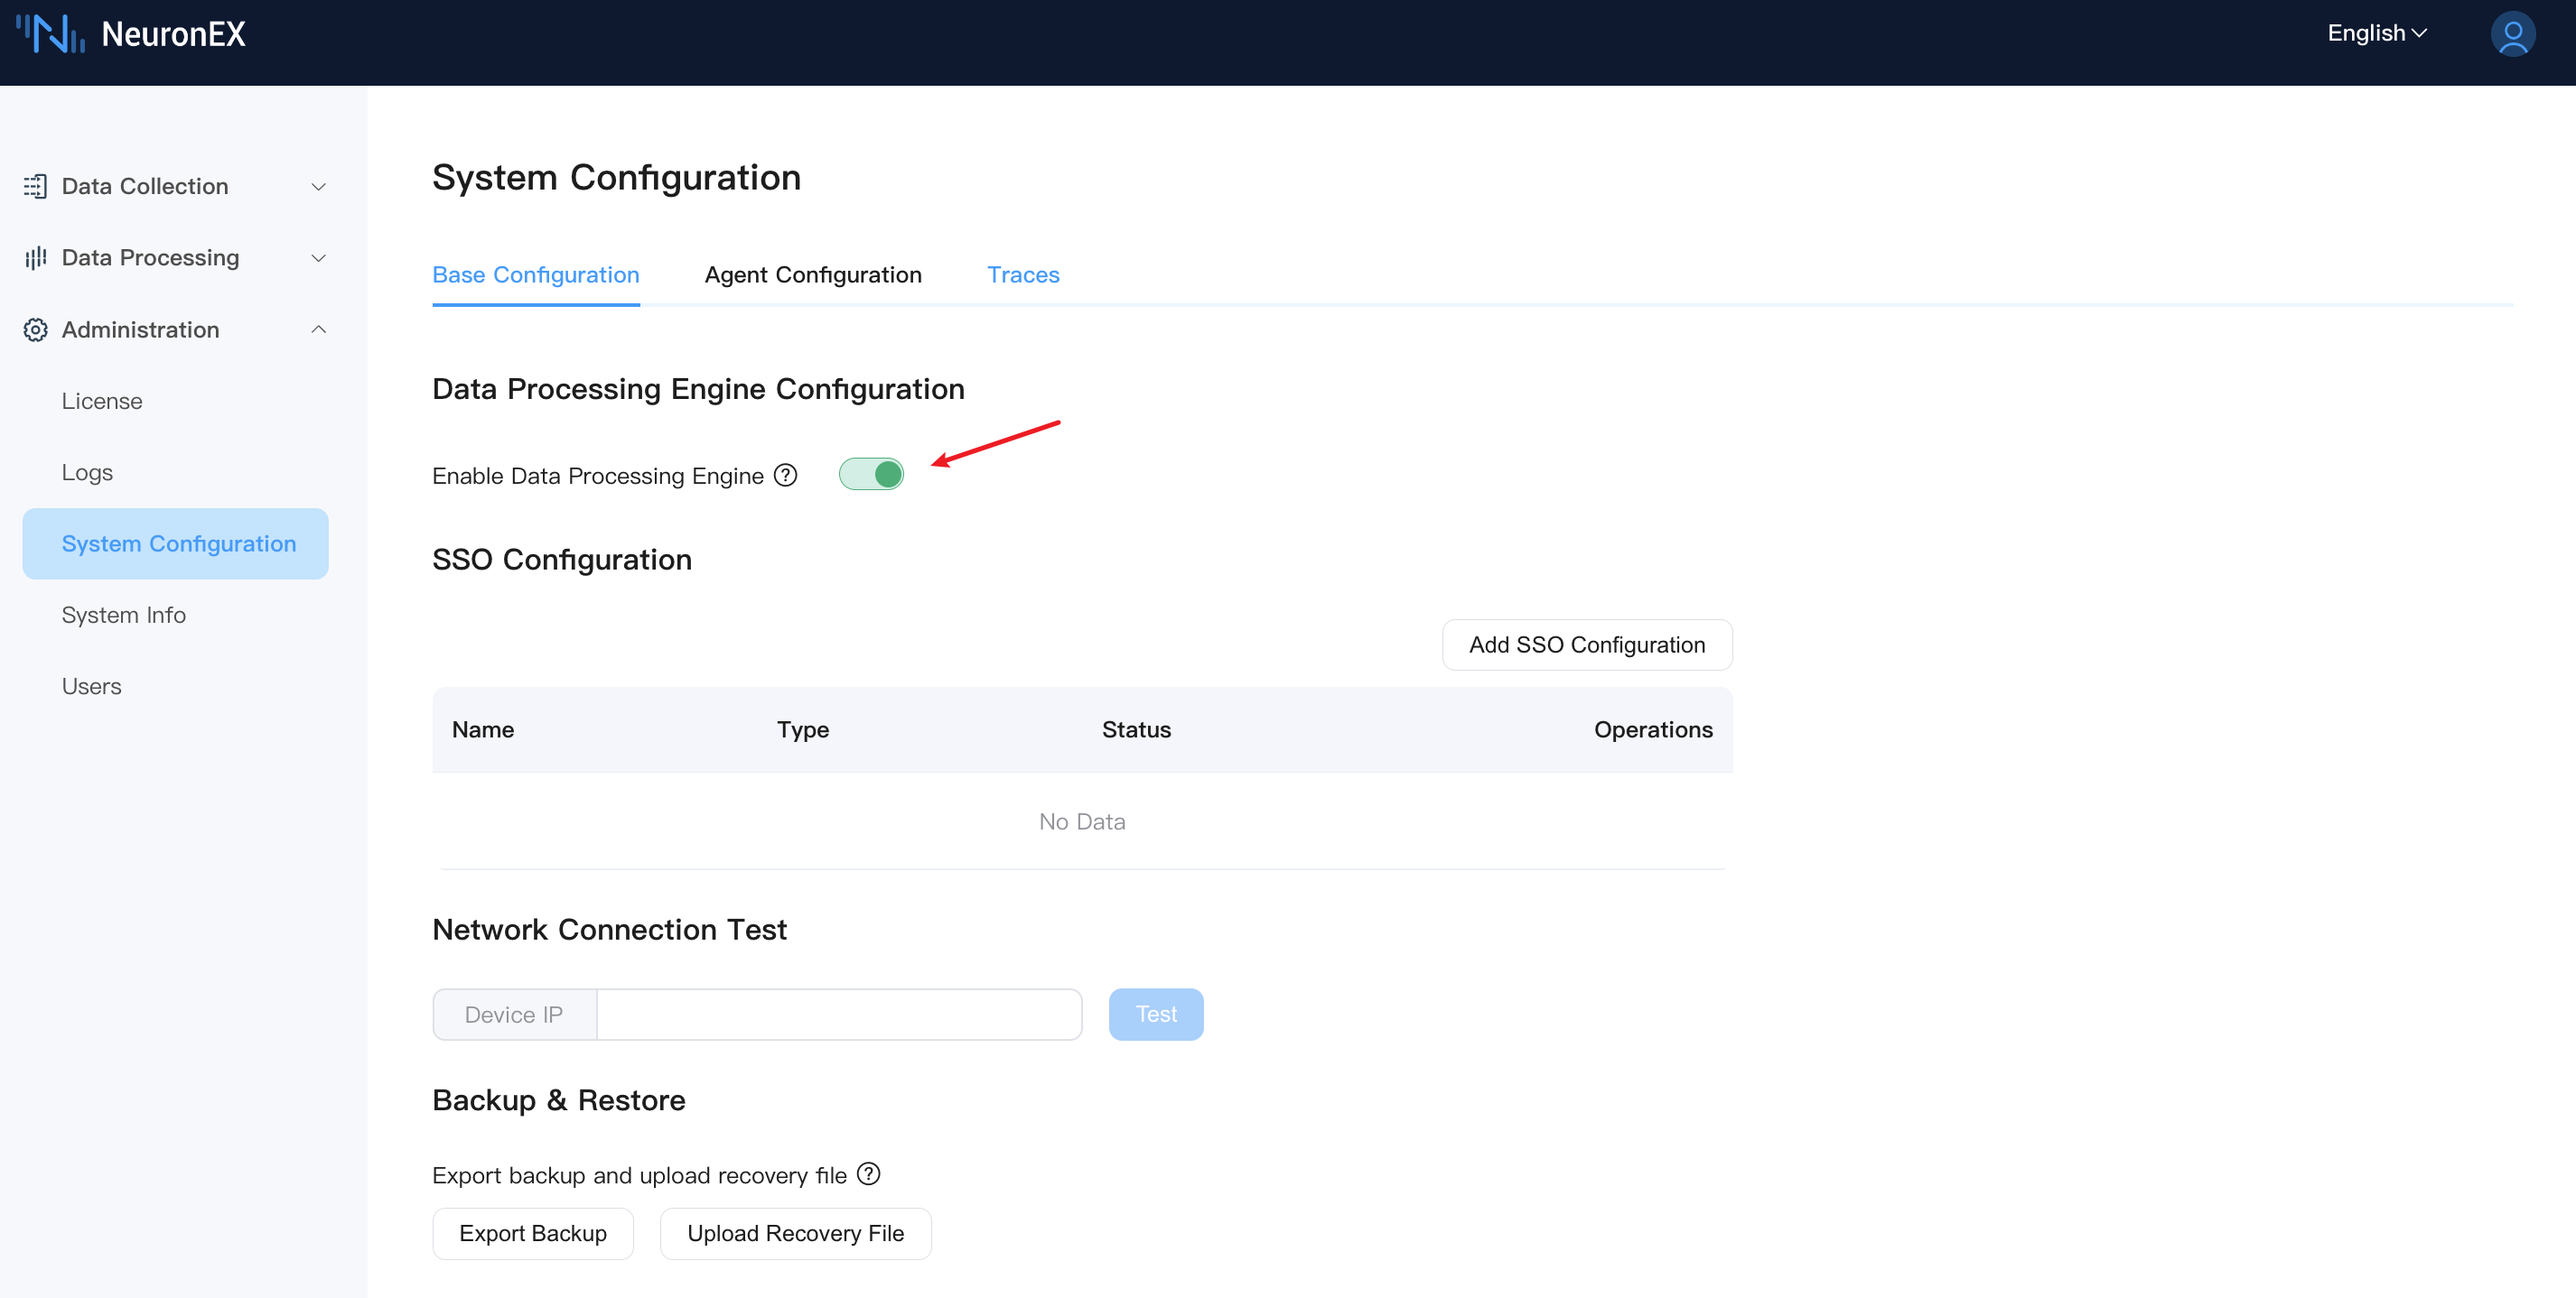
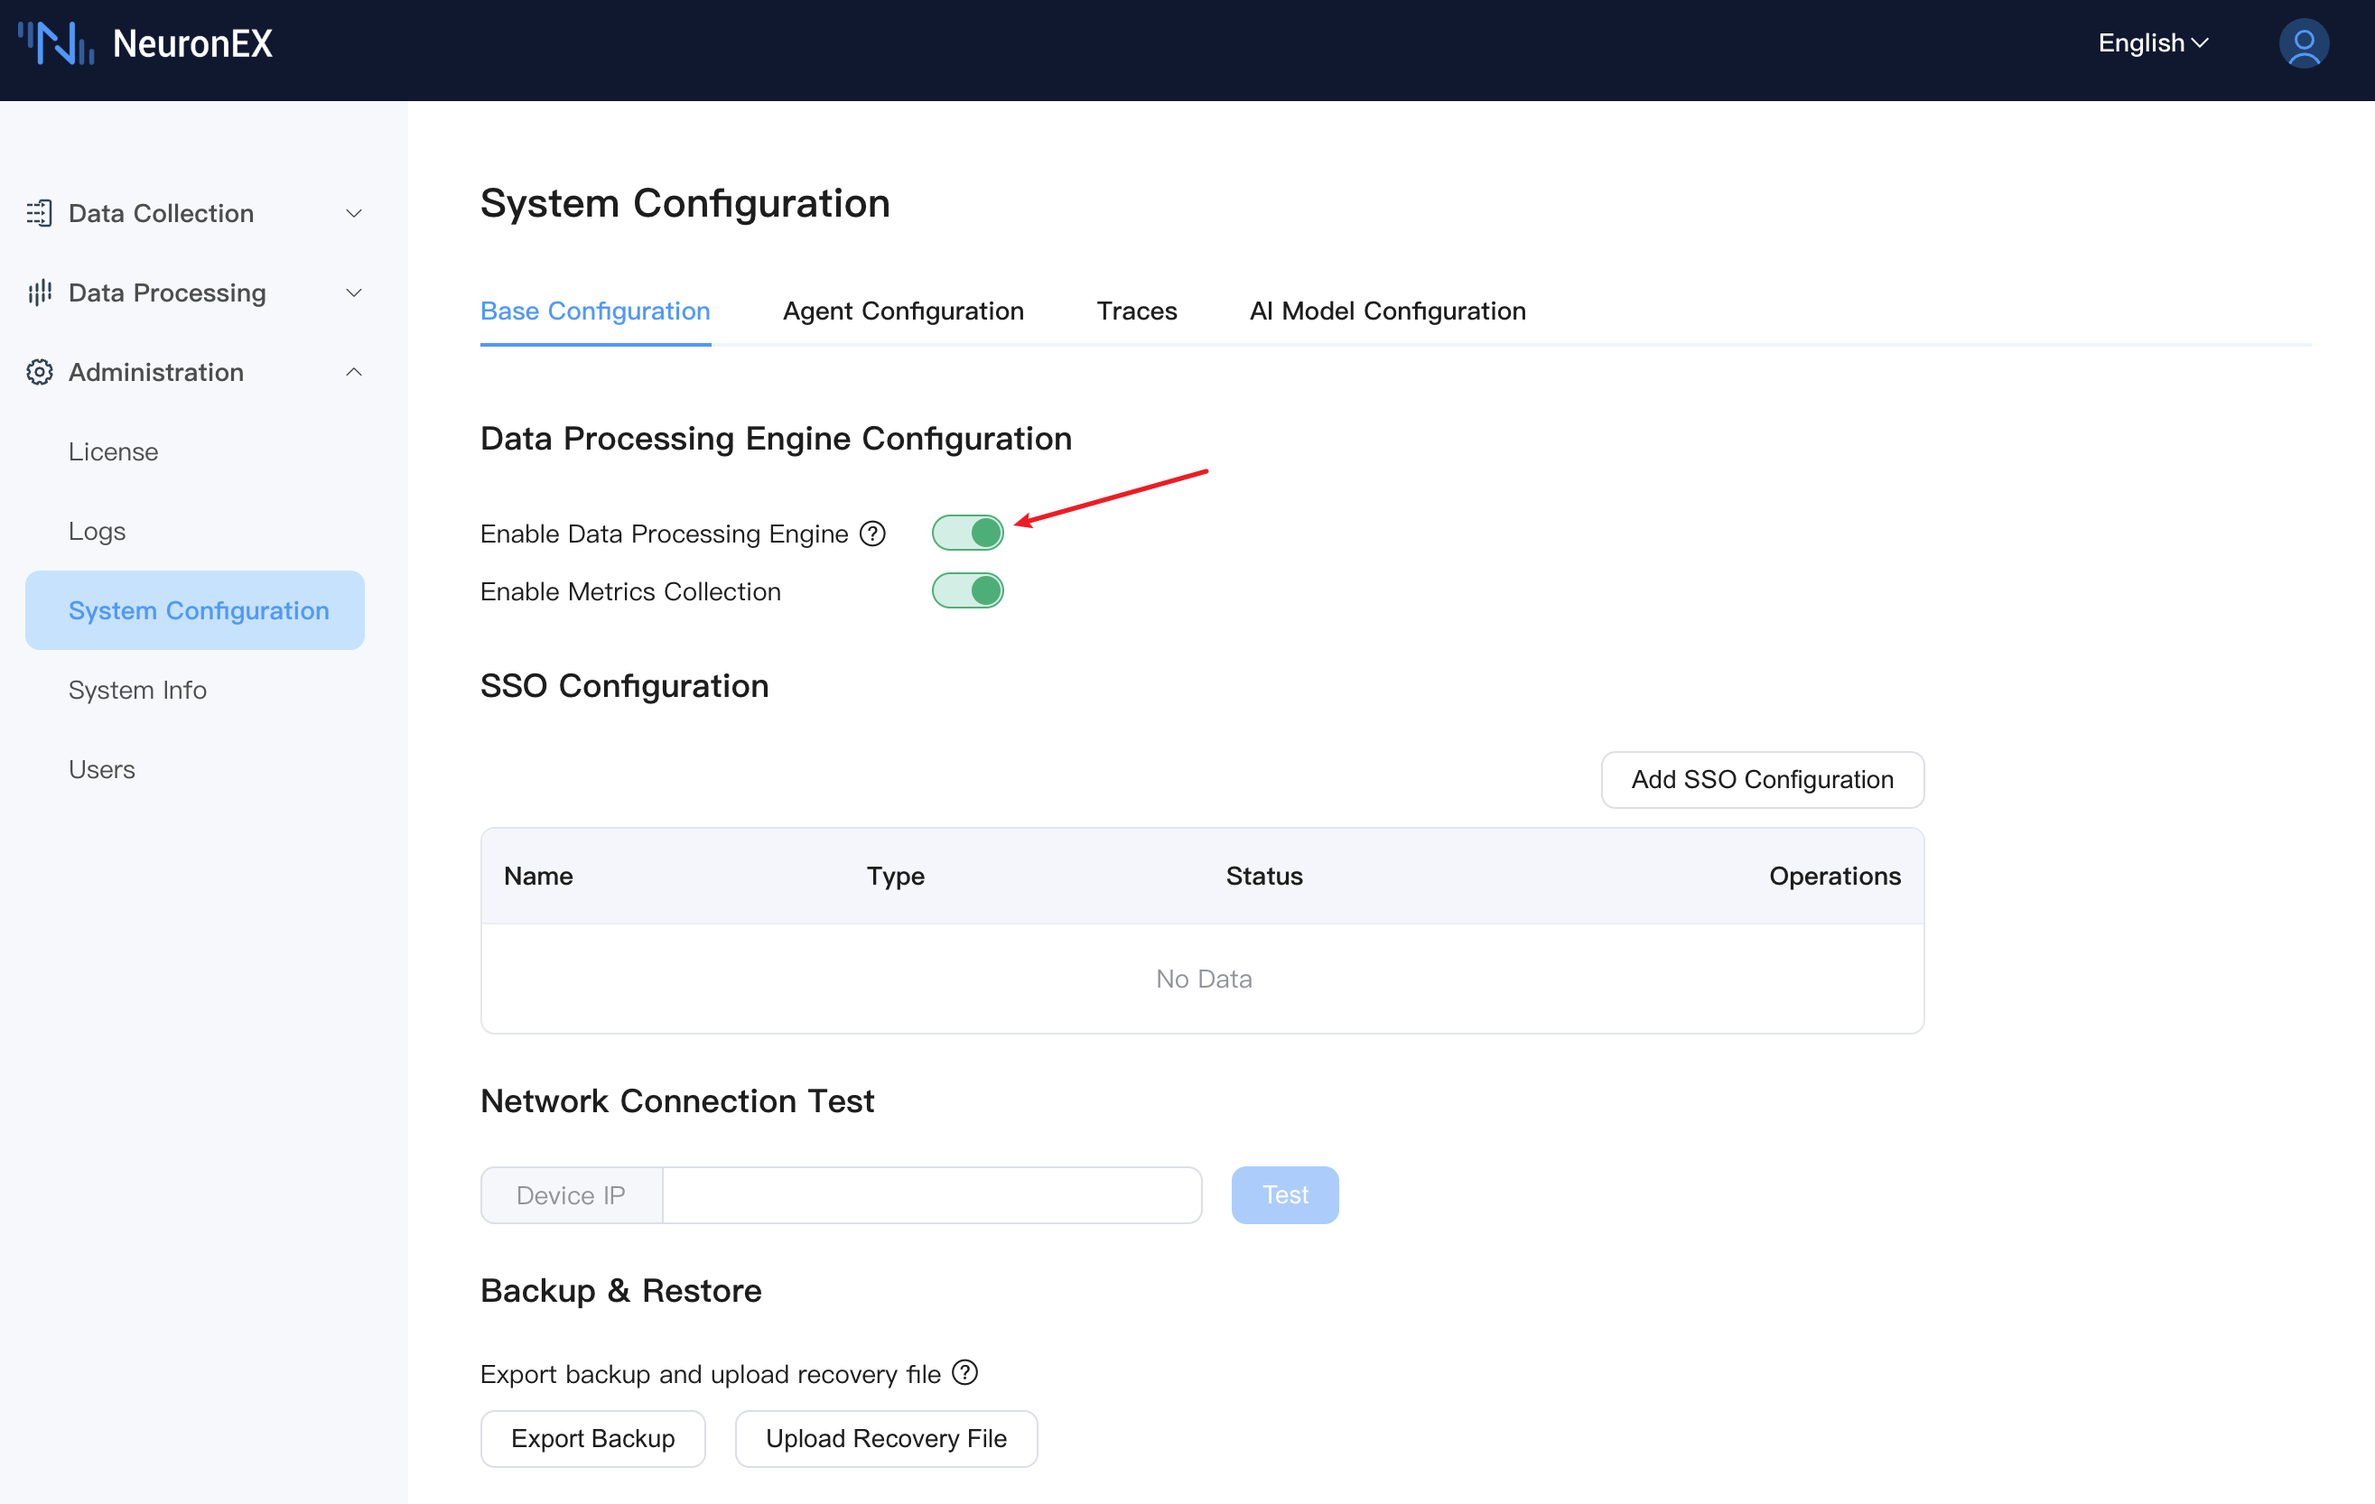
update 3.5.1 docs

diff --git a/en_US/admin/sys-configuration.md b/en_US/admin/sys-configuration.md
@@ -3,6 +3,8 @@
 NeuronEX supports customization of relevant functions on the Dashboard.
 
 ## Data Processing Engine Configuration
+
+### Enable Data Processing Engine
 After logging into NeuronEX, click on **Administration** -> **System Configuration** on the left side to enter the system configuration page. You can manually enable or disable the data processing engine.
 
 ![start_ekuiper_en](assets/start_ekuiper_en.png)
@@ -12,6 +14,15 @@ After logging into NeuronEX, click on **Administration** -> **System Configurati
 Closing the data processing engine will render the data processing function unavailable, so please operation with caution!
 
 :::
+
+### Enable Metrics Collection
+
+When the metrics collection is enabled, the metrics of the data processing engine will be collected and stored in the local file directory.
+
+When the metrics collection is enabled, on the **Logs** -> **Log Management** page, click the **Download Data Processing Engine Logs** button to download the complete logs and metrics files. Click the **Download Custom Log Metrics File** button to select the logs or metrics files to download.
+
+![metrics_en](assets/metrics_en.png)
+
 
 ## SSO Configuration
 
@@ -168,3 +179,25 @@ To implement downstream MQTT control command tracing, the following conditions m
     For example, using MQTTX, as shown in the figure below:
 
 ![trace_mqttx](assets/trace_mqttx.png)
+
+## AI Model Configuration
+
+NeuronEX supports configuring AI models in the system configuration page, and using AI models to generate Python plugins.
+
+In the NeuronEX **System Configuration** -> **AI Model Configuration** page, add a LLM model, including the LLM model type, API Key, Endpoint address, and model name. Currently, NeuronEX supports the following models:
+
+| <div style="width:100pt">Model Vendor</div> | <div style="width:120pt">Endpoint Address</div> | <div style="width:120pt">Model Name</div> |
+| ------------------------------------------- | --------------------------------------------- | ---------------------------------------- |
+| DeepSeek | `https://api.deepseek.com` | `deepseek-chat` <br> `deepseek-reasoner` |
+| SiliconFlow | - | `Pro/deepseek-ai/DeepSeek-V3` <br> `Pro/deepseek-ai/DeepSeek-R1` |
+| OpenAI | `https://api.openai.com/v1` | `gpt-4o` |
+| Azure OpenAI | Obtain from Azure official website | `gpt-4o` |
+
+You can obtain API Keys from the official websites of these model vendors, add model configurations on the NeuronEX page, and enable them. Multiple large models can be configured on the page simultaneously, but only one model can be enabled for use.
+
+![alt text](_assets/llm-config-en.png)
+
+::: tip
+1. Please ensure that NeuronEX can connect to the internet normally and access the model's API.
+2. Small models or excessively outdated models will affect the quality of generated Python plugins. The models in the above table are recommended, and new models released by various vendors can also be used in the future.
+:::

diff --git a/zh_CN/admin/sys-configuration.md b/zh_CN/admin/sys-configuration.md
@@ -3,6 +3,8 @@
 NeuronEX 支持在 Dashboard 上对相关功能进行配置修改。
 
 ## 数据处理引擎配置
+
+### 启动数据处理引擎
 登录 NeuronEX 后，点击页面左侧的 **管理** -> **系统配置**， 进入系统配置界面。可手动开启、关闭数据处理引擎。
 
 ![start_ekuiper_zh](assets/start_ekuiper_zh.png)
@@ -10,6 +12,21 @@ NeuronEX 支持在 Dashboard 上对相关功能进行配置修改。
 :::tip  注意
 
 关闭数据处理引擎，会造成数据处理功能不可用，请谨慎操作！
+
+:::
+
+### 开启指标采集
+
+开启指标采集后，数据处理引擎的运行指标（metrics）会被采集并存储到本地文件目录。
+
+当开启指标采集时，在**日志**->**日志管理**页面，点击**下载数据处理引擎日志**按钮，可以下载完整的日志及指标文件。点击**下载自定义日志指标文件**按钮，可以自行勾选需要下载的日志或指标文件。
+
+![metrics_zh](assets/metrics_zh.png)
+
+
+:::tip  注意
+
+开启指标采集功能后，如果规则处理的数据接入量较大，可能会导致指标文件过大，需要消耗较多的磁盘空间。
 
 :::
 
@@ -173,4 +190,28 @@ Scope、Grant Type、Request Method 和 Content Type 字段需要根据平台要
     以 MQTTX 为例，如下图所示：
 
 ![trace_mqttx](assets/trace_mqttx.png)
+
+## AI 模型配置
+
+NeuronEX 支持在系统配置页面配置 AI 模型，并使用 AI 模型生成 Python 插件。
+
+在 NeuronEX **系统配置** -> **AI 模型配置**页面，添加一个LLM模型配置信息，包括 LLM 模型的类型、API Key、Endpoint 地址以及模型名称。目前 NeuronEX 已支持以下厂商的模型：
+
+| <div style="width:100pt">模型厂商</div>                 | <div style="width:120pt">Endpoint地址</div> | <div style="width:120pt">模型名称</div> |
+| ------------------------------------------------------------ |  ------------ | -------------------------------- |
+| DeepSeek              | `https://api.deepseek.com`  | `deepseek-chat` <br> `deepseek-reasoner` |
+| SiliconFlow              | -    |  `Pro/deepseek-ai/DeepSeek-V3` <br> `Pro/deepseek-ai/DeepSeek-R1`|
+| OpenAI     | `https://api.openai.com/v1`  |  `gpt-4o` |
+| Azure OpenAI            | Azure官网获取  |  `gpt-4o` |
+
+您可通过以上模型厂商的官方网站获取 API Key，并在 NeuronEX 页面添加模型配置并启用。可在页面中同时配置多个大模型，但只能启用一个模型进行使用。
+
+
+![alt text](_assets/llm-config-zh.png)
+
+
+::: tip
+1. 请保证 NeuronEX 能正常联网，可访问大模型的 API。
+2. 小模型或者过于老旧的模型会影响生成 Python 插件的效果，上表中的模型为推荐使用模型，后续也可使用各厂商推出的新模型。
+:::
 

diff --git a/en_US/best-practise/llm-portable-plugin.md b/en_US/best-practise/llm-portable-plugin.md
@@ -20,11 +20,18 @@ Using AI-generated Python plugin functionality in NeuronEX mainly involves the f
 
 ### Installation
 
-Starting from version 3.5.1, NeuronEX provides Docker image packages supporting AI functionality: neuronex:3.x.x-ai. Use the following commands to download and run NeuronEX:
+Starting from version 3.5.1, NeuronEX provides Docker image packages supporting AI functionality: neuronex:3.5.1-ai and neuronex:3.5.1-ai-amd64. The image packages have pre-installed the Python dependencies required for interacting with LLM models.
+
+Use the following commands to download and run NeuronEX:
 
 ```shell
+# Download x86 image and run container
 docker pull emqx/neuronex:3.5.1-ai
-docker run -d --name neuronex -p 8085:8085 --log-opt max-size=100m emqx/neuronex:3.5.1-ai
+docker run -d --name neuronex -p 8085:8085 --log-opt max-size=100m --privileged=true emqx/neuronex:3.5.1-ai
+
+# Download arm64 image and run container
+docker pull emqx/neuronex:3.5.1-ai-amd64
+docker run -d --name neuronex -p 8085:8085 --log-opt max-size=100m --privileged=true emqx/neuronex:3.5.1-ai-amd64
 ```
 
 ### AI Model Configuration
@@ -76,7 +83,7 @@ On the algorithm integration list page, you can see the currently deployed funct
 ![alt text](_assets/llm-python5-en.png)
 
 ::: tip
-1. If you are not satisfied with the generated algorithm logic, you can input and adjust the natural language again to regenerate.
+1. Talking to AI cannot adjust the generated function code. If you are not satisfied with the generated function code, you can input and adjust the natural language again to regenerate it.
 2. If an AI-generated plugin has the same name as an existing plugin, the original plugin will be overwritten.
 3. If an AI-generated plugin has the same name as a built-in function, the built-in function takes precedence and the generated plugin becomes invalid.
 :::

diff --git a/zh_CN/best-practise/llm-portable-plugin.md b/zh_CN/best-practise/llm-portable-plugin.md
@@ -16,11 +16,18 @@ NeuronEX 支持通过 Python 等语言编写扩展函数来弥补这一不足，
 
 ### 安装
 
-NeuronEX 从 3.5.1 版本开始，提供了支持 AI 功能 Docker 镜像包 neuronex:3.x.x-ai。使用以下命令下载并运行 NeuronEX
+NeuronEX 从 3.5.1 版本开始，提供了支持 AI 功能 Docker 镜像包 neuronex:3.5.1-ai 和 neuronex:3.5.1-ai-amd64。该镜像包已预装了与 LLM 模型交互所需的 Python 依赖库。
+
+使用以下命令下载并运行 NeuronEX
 
 ```shell
+# 下载x86镜像，并运行容器
 docker pull emqx/neuronex:3.5.1-ai
-docker run -d --name neuronex -p 8085:8085 --log-opt max-size=100m emqx/neuronex:3.5.1-ai
+docker run -d --name neuronex -p 8085:8085 --log-opt max-size=100m --privileged=true emqx/neuronex:3.5.1-ai
+
+# 下载arm64镜像，并运行容器
+docker pull emqx/neuronex:3.5.1-ai-amd64
+docker run -d --name neuronex -p 8085:8085 --log-opt max-size=100m --privileged=true emqx/neuronex:3.5.1-ai-amd64
 
 ```
 
@@ -75,7 +82,7 @@ docker run -d --name neuronex -p 8085:8085 --log-opt max-size=100m emqx/neuronex
 ![alt text](_assets/llm-python5-zh.png)
 
 ::: tip
-1. 如果对生成的算法逻辑不满意，可再次输入并调整自然语言，重新生成。
+1. 和 AI 对话并不能调整生成的函数代码逻辑，如果对生成的插件函数不满意，可再次输入并调整自然语言，重新生成。
 2. 如果 AI 生成的便捷插件与已有便捷插件名称重名，则原便捷插件会被覆盖。
 3. 如果 AI 生成的便捷插件与内置函数名称重名，则内置函数优先级更高，生成插件无效。
 :::

diff --git a/en_US/release_history/release_history.md b/en_US/release_history/release_history.md
@@ -1,5 +1,29 @@
 # Release history
 
+## v3.5.1
+
+Release Date: 2025-04-18
+
+### Enhancements
+
+- Added new feature: AI Generate Python Function(only supported by Docker image `emqx/neuronex:3.5.1-ai` and `emqx/neuronex:3.5.1-ai-amd64`), please refer to [Document](https://docs.emqx.com/en/neuronex/latest/best-practise/llm-portable-plugin.html) for details.
+- Data processing engine configuration supports enabling indicator collection and downloading  indicator logs, please refer to [Document](https://docs.emqx.com/en/neuronex/latest/admin/sys-configuration.html#enable-metrics-collection) for details.
+- DLT645-2007 Added support for signed integer data types
+- Mitsubishi 3E extended support for string length to 256
+
+### Fixes
+
+- Fixed OPCUA driver successfully writes data to some third-party OPC servers but returns an error code
+- Fixed OPCUA driver would get stuck when executing operations in some cases
+- SparkplugB write tag adapts to the newly added is_value_in_range series of rules in the core
+- Fixed the get_keyed_state function always returns nil when the default value is not passed
+- Fixed attribute error after rule restart
+- Fixed Kafka sink batch is not sent when it is 0
+- Fixed manually shutting down the rule to change the state twice
+- Fixed the MQTT v5 dynamic attribute does not change
+- Fixed the panic problem when the Portable plugin fails
+
+
 ## v3.4.5
 
 Release Date: 2025-03-20

diff --git a/zh_CN/release_history/release_history.md b/zh_CN/release_history/release_history.md
@@ -1,5 +1,29 @@
 # 发版历史
 
+## v3.5.1
+
+发布日期：2025-04-18
+
+### 增强
+
+- 新增 AI 生成 Python 便捷插件功能（仅 Docker 镜像 `emqx/neuronex:3.5.1-ai` 和 `emqx/neuronex:3.5.1-ai-amd64` 支持），详细使用请参考[文档](https://docs.emqx.com/zh/neuronex/latest/best-practise/llm-portable-plugin.html )。
+- 数据处理引擎配置支持开启指标采集，并支持下载自定义日志指标文件，详细使用请参考[文档](https://docs.emqx.com/zh/neuronex/latest/admin/sys-configuration.html#开启指标采集)。
+- DLT645-2007 新增支持有符号整型数据类型
+- Mitsubishi 3E 扩展支持字符串长度到 256
+
+### 修复
+
+- 修复 OPCUA 驱动某些第三方 OPC Server 数据写入成功，但返回错误码的问题
+- 修复 OPCUA 驱动某些情况下，执行操作会卡死的问题
+- SparkplugB write tag 适配核心新加入的 is_value_in_range 系列规则
+- 修复 get_keyed_state 函数默认值未传时总是返回nil的问题
+- 修复规则重启后属性错误问题 
+- 修复 Kafka sink batch 为0时不发送问题
+- 修复规则手动关闭运行两次状态变更的问题
+- 修复 MQTT v5 动态属性不变化的问题 
+- 修复 Portable 插件出错时 Panic 问题
+
+
 ## v3.4.5
 
 发布日期：2025-03-20

diff --git a/en_US/installation/introduction.md b/en_US/installation/introduction.md
@@ -14,7 +14,7 @@ Neuron software packages can be downloaded from the [Website](https://www.emqx.c
 
 The NeuronEX supports the following operating systems:
 
-- CentOS 7.0 and above, Ubuntu 18.04 and above, and other operating systems based on the Linux kernel.
+- CentOS 8.0 and above, Ubuntu 18.04 and above, and other operating systems based on the Linux kernel.
 
 :::tip
 For Windows operating systems, the following installation methods are supported:
